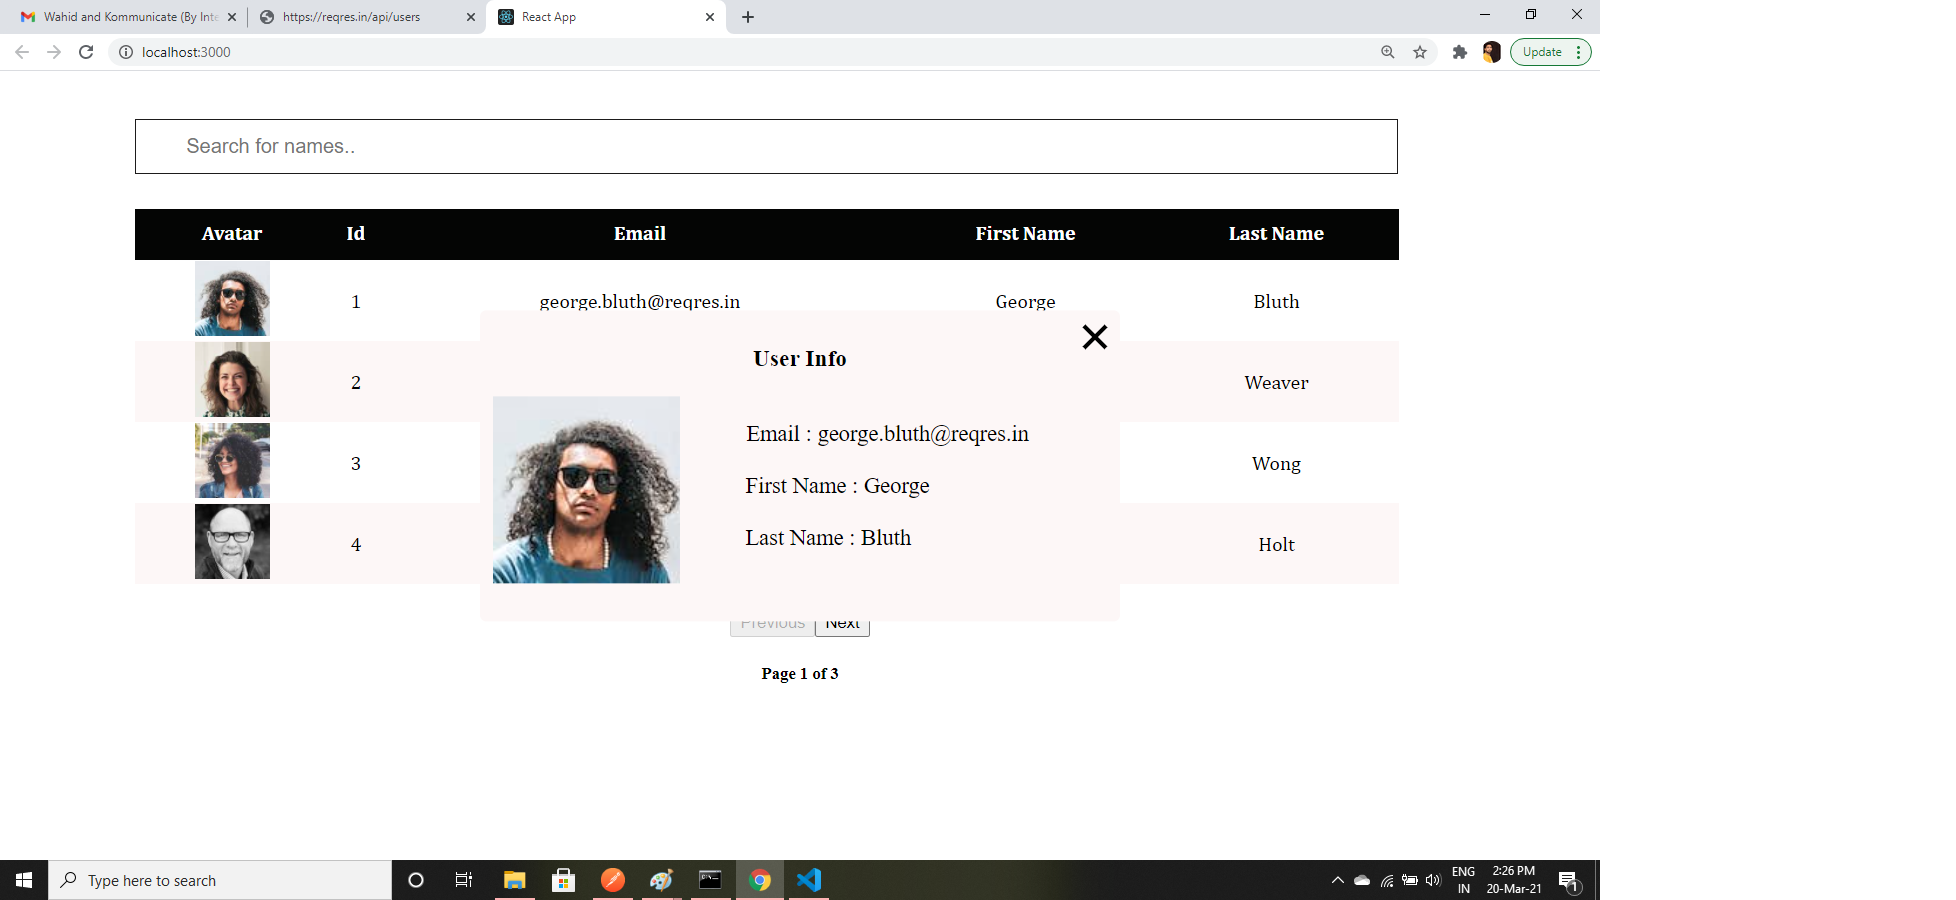
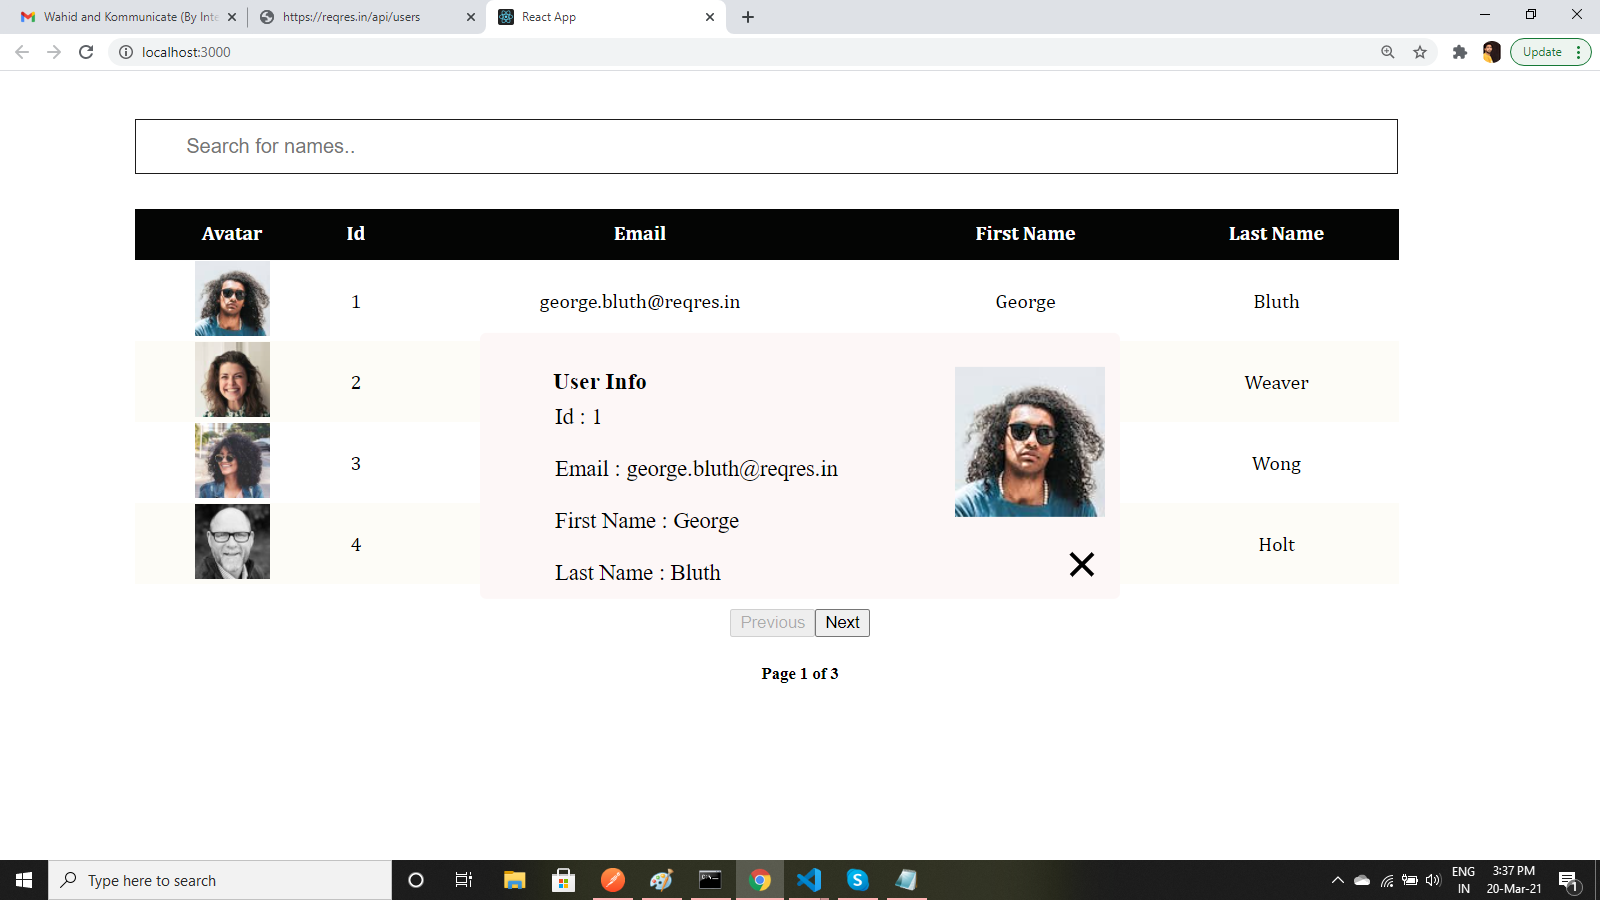
test

diff --git a/src/Style.css b/src/Style.css
@@ -8,7 +8,7 @@
 }
 
 #containers tr:nth-child(even) {
-  background-color: #fdf7f7;
+  background-color: #fdfcf7;
 }
 #containers tr:nth-child(odd) {
   background-color: #ffffff;
@@ -93,8 +93,8 @@ input[type="text"] {
 }
 .close:before, .close:after {
   position: absolute;
-  margin-left: 480px;
-  margin-top: -230px;
+  margin-left: 470px;
+  margin-top: -30px;
   content: ' ';
   height: 25px;
   width: 3px;
@@ -118,27 +118,29 @@ input[type="text"] {
   display: grid;
   column-gap: 1px;
   row-gap: 1em;
+  margin-left: 370px;
+  margin-top: -60px;
 }
 
 .details {
-  text-align: center;
-  margin-top: -150px;
-  margin-left: 100px;
+  text-align: left;
   font-size: large;
+  margin-top: -110px;
 }
 
 .info {
   text-align: center;
-  margin-left: center;
-
+  margin-left: -320px;
 }
-
+.id {
+  margin-left: -320px;
+}
 .mail {
-  margin-left: 40px;
+  margin-left: -320px;
 }
 .first {
-  margin-left: -40px;
+  margin-left: -320px;
 }
 .last {
-  margin-left: -55px;
+  margin-left: -320px;
 }

diff --git a/src/ApiData.js b/src/ApiData.js
@@ -117,11 +117,16 @@ const ApiData = () => {
                 <Modal isOpen={isModalOpen} toggle={toggleModal}>
                         
                          <div class='info'><h3>User Info</h3></div>
+                         <br/>
                          <div class="wrapper">
-                         <div><img src={modaluser.avatar}  alt="" width="150" height="150"/></div>
+                         <div><img src={modaluser.avatar}  alt="" width="120" height="120"/>
+                         </div>
 
                          <div class="details">
-
+                         <div class='id'>
+                              <div>Id : {modaluser.id}</div>
+                         </div>
+                         <br/>
                           <div class="mail">
                               <div>Email  : {modaluser.email}</div>
                               </div>
